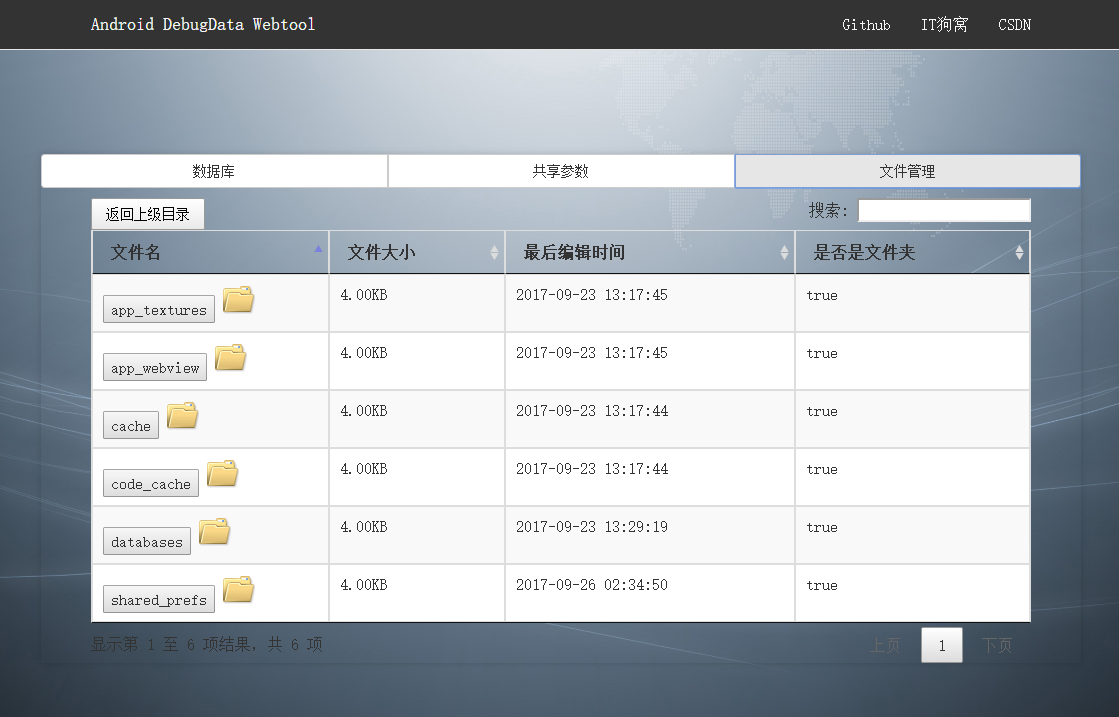
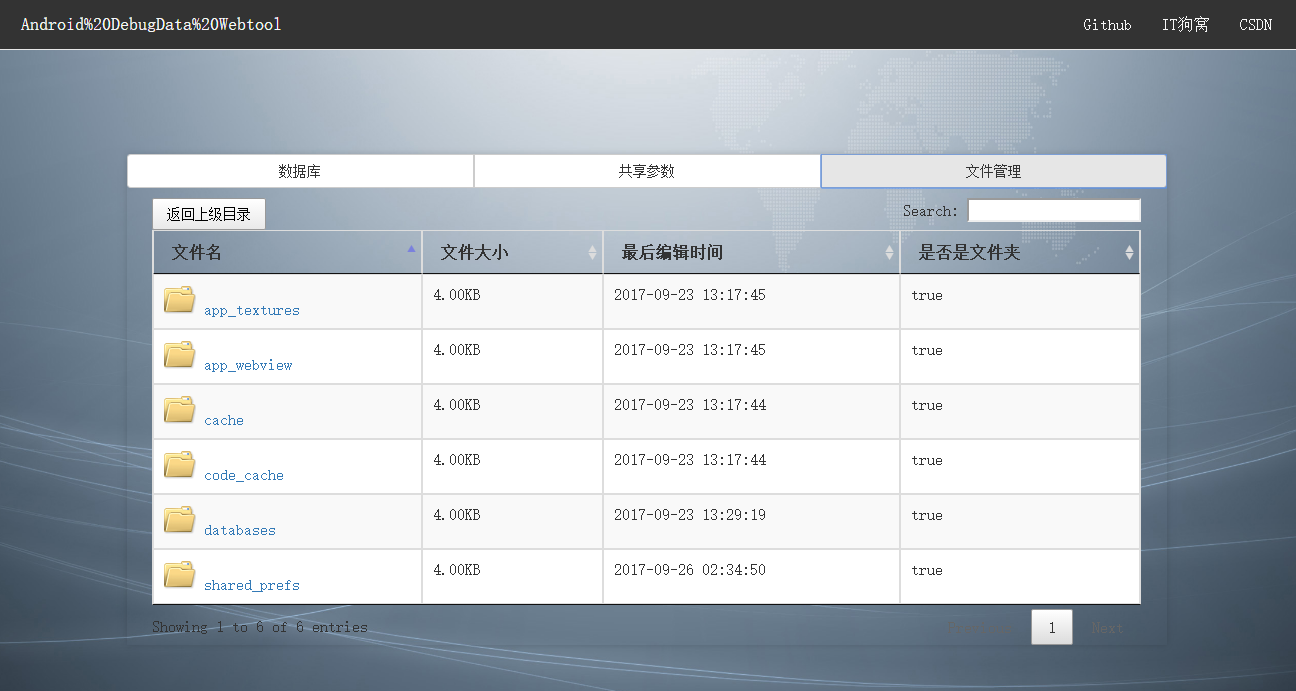
简单样式变更，解决页面切换逻辑bug

diff --git a/Android_debugdata_webtool/webtoollibrary/src/main/assets/index.html b/Android_debugdata_webtool/webtoollibrary/src/main/assets/index.html
@@ -3,12 +3,10 @@
     <meta charset="UTF-8"/>
     <meta name="robots" content="index, follow"/>
 
-    <!-- add css stylesheets -->
-    <!-- 引入组件库 -->
+
     <title>Android-DebugData-Webtool</title>
     <meta charset="utf-8">
-    <meta name="viewport" content="width=device-width, initial-scale=1">
-    <link rel="shortcut icon" href="favicon.ico" type="image/x-icon">
+
     <script src="js/jquery.min.js"></script>
     <script src="js/dataTables.bootstrap.min.js"></script>
     <script src="js/jquery.dataTables.min.js"></script>
@@ -33,22 +31,17 @@
 </head>
 <body>
 <div id="app"><img src="images/bg.jpg" alt="" id="background"/>
-    <nav class="navbar navbar-default navbar-fixed-top" role="navigation"
-         style="background-color: #333 !important;">
+    <nav class="navbar navbar-default navbar-fixed-top" role="navigation" style="background-color: #333 !important">
         <div class="container">
             <!-- Brand and toggle get grouped for better mobile display -->
-            <div class="navbar-header"><a class="navbar-brand" href="index.html" style="color: #f7f7f7;">Android
-                DebugData
-                Webtool</a></div>
+            <div class="navbar-header"><a class="navbar-brand" href="index.html" style="color: #f7f7f7;">Android%20DebugData%20Webtool</a>
+            </div>
             <!-- Collect the nav links, forms, and other content for toggling -->
             <div class="collapse navbar-collapse" id="bs-example-navbar-collapse-1">
                 <ul class="nav navbar-nav navbar-right">
-                    <li><a href="https://github.com/hnsugar/android_debugdata_webtool" style="color: #f7f7f7;"
-                           target="_blank">Github</a></li>
-                    <li><a href="http://itgowo.com" style="color: #f7f7f7;"
-                           target="_blank">IT狗窝</a></li>
-                    <li><a href="http://blog.csdn.net/hnsugar" style="color: #f7f7f7;"
-                           target="_blank">CSDN</a></li>
+                    <li><a href="https://github.com/hnsugar" style="color: #f7f7f7;" target="_blank">Github</a></li>
+                    <li><a href="http://itgowo.com" style="color: #f7f7f7;" target="_blank">IT狗窝</a></li>
+                    <li><a href="http://blog.csdn.net/hnsugar" style="color: #f7f7f7;" target="_blank">CSDN</a></li>
                 </ul>
             </div>
             <!-- /.navbar-collapse -->

diff --git a/Android_debugdata_webtool/webtoollibrary/src/main/assets/app.js b/Android_debugdata_webtool/webtoollibrary/src/main/assets/app.js
@@ -1,4 +1,4 @@
-var rootUrl = "http://192.168.1.15:8088";
+var rootUrl = "";
 var dbFileName;
 var SPFileName;
 var downloadFilePath1;
@@ -24,17 +24,13 @@ $(document).ready(function () {
         $("#dbwindow").hide();
         $("#spwindow").show();
         $("#fmwindow").hide();
-        if (downloadFilePath2 == null) {
-            getSpList();
-        }
+        getSpList();
     });
     $("#btnfm").click(function () {
         $("#dbwindow").hide();
         $("#spwindow").hide();
         $("#fmwindow").show();
-        if (downloadFilePath2 == null) {
-            getFileList();
-        }
+        getFileList();
     });
 
 
@@ -215,8 +211,8 @@ function getFileList(path) {
                 if (result.code == 200) {
                     FilecolumnData = result.fileList;
                     for (i = 0; i < FilecolumnData.length; i++) {
-                        if(i==0){
-                            FilePath3=FilecolumnData[0].rootPath;
+                        if (i == 0) {
+                            FilePath3 = FilecolumnData[0].rootPath;
                         }
                         if (FilecolumnData[i].dir == true) {
                             FilecolumnData[i].fileName = "<div onClick='getFileList(\"" + FilecolumnData[i].path + "\")'> <img src=\"images/folder.png\"/> <a>" + FilecolumnData[i].fileName + "</a></div>";
